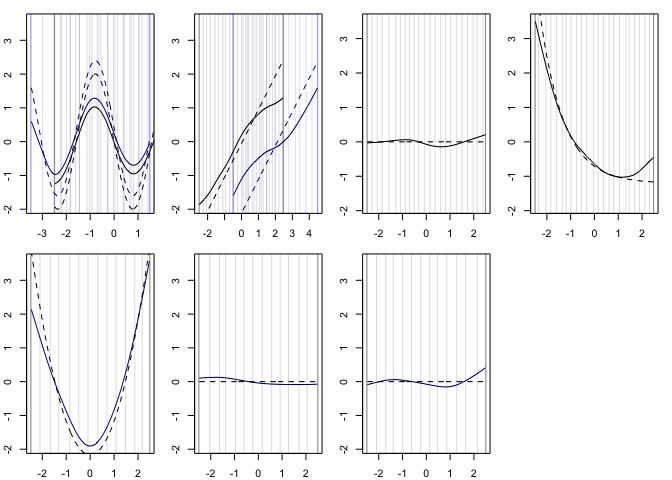
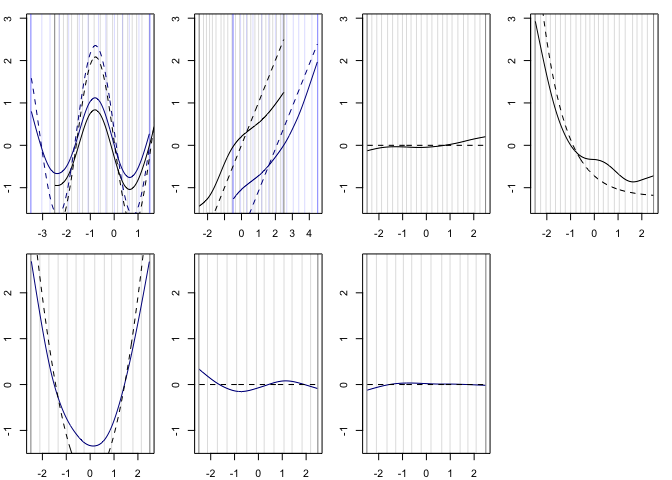
edit readme for typos

diff --git a/README.md b/README.md
@@ -1,8 +1,8 @@
 Fitting a sparse nonparametric model to a single data set
 ---------------------------------------------------------
 
-The function fits a sparse semiparametric regression model to a single
-data set using user-specified tuning parameter values.
+The `semipadd` function fits a sparse semiparametric regression model to
+a single data set using user-specified tuning parameter values.
 
 The following code generates a synthetic data set with continuous
 responses using the `get_semipadd_data` function and uses the `semipadd`
@@ -35,9 +35,9 @@ model to a single data set with the tuning parameter governing sparsity
 chosen via crossvalidation.
 
 The following code generates a synthetic data set with binary responses
-using the `get_semipadd_data` and uses the `semipadd_cv_adapt` function
-to fit a sparse semiparametric regression model. The tuning parameter
-governing sparsity is chosen via crossvalidation. The
+using the `get_semipadd_data` function and uses the `semipadd_cv_adapt`
+function to fit a sparse semiparametric regression model. The tuning
+parameter governing sparsity is chosen via crossvalidation. The
 `plot_semipadd_cv_adapt` function plots the fitted nonparametric
 effects, showing with transparent curves the fitted effects under
 candidate tuning parameter values which were not chosen by
@@ -54,7 +54,7 @@ crossvalidation. The true effects are plotted with dashed lines.
                                                xi = 1,
                                                n.lambda = 10,
                                                lambda.min.ratio = .001,
-                                               lambda.max.ratio = 5,
+                                               lambda.max.ratio = 1,
                                                lambda.beta = 1,
                                                lambda.f = 1,
                                                tol = 1e-3,
@@ -67,12 +67,14 @@ crossvalidation. The true effects are plotted with dashed lines.
 
 ![](README_files/figure-markdown_strict/semipadd_cv_adapt-1.png)
 
-Fitting two sparse semiparametric models combining two data sets
-----------------------------------------------------------------
+Combining data sets to fit two sparse semiparametric additive models
+--------------------------------------------------------------------
 
-The function fits sparse semiparametric regression models to two data
-set which have come covariates in common using user-specified tuning
-parameter values.
+The `semipadd2pop` function fits sparse semiparametric regression models
+to two data sets which have some covariates in common. The function
+requires the user to choose values of the parameters governing the
+sparsity of the fitted models and the penalization towards similar fits
+of common covariate effects.
 
 The following code generates two synthetic data sets with group testing
 responses using the `get_semipadd2pop_data` function and uses the
@@ -80,7 +82,7 @@ responses using the `get_semipadd2pop_data` function and uses the
 The `plot_semipadd2pop` function plots the fitted nonparametric effects
 in both data sets. The true effects are plotted with dashed lines.
 
-    data <- get_semipadd2pop_data(n1 = 500, n2 = 600, response = "gt")
+    data <- get_semipadd2pop_data(n1 = 1000, n2 = 800, response = "gt")
 
     semipadd2pop.out <- semipadd2pop(Y1 = data$Y1,
                                      X1 = data$X1,
@@ -114,12 +116,13 @@ in both data sets. The true effects are plotted with dashed lines.
 ![](README_files/figure-markdown_strict/semipadd2pop-1.png)
 
 The `semipadd2pop_cv_adapt` function fits sparse semiparametric
-regression models to two data sets with some common covariates with the
-tuning parameters governing sparsity and penalization towards similar
-fitting of common effect chosen via crossvalidation.
+regression models to two data sets with some common covariates. It
+choosing values of the tuning parameters governing sparsity and
+penalization towards similar fitting of common effects via
+crossvalidation.
 
 The following code generates two synthetic data sets with continuous
-responses using the `get_semipadd2pop_data` and uses the
+responses using the `get_semipadd2pop_data` function and uses the
 `semipadd2pop_cv_adapt` function to fit a sparse semiparametric
 regression models for the two data sets. The tuning parameters governing
 sparsity and penalization towards similarity in the fitted effects of
